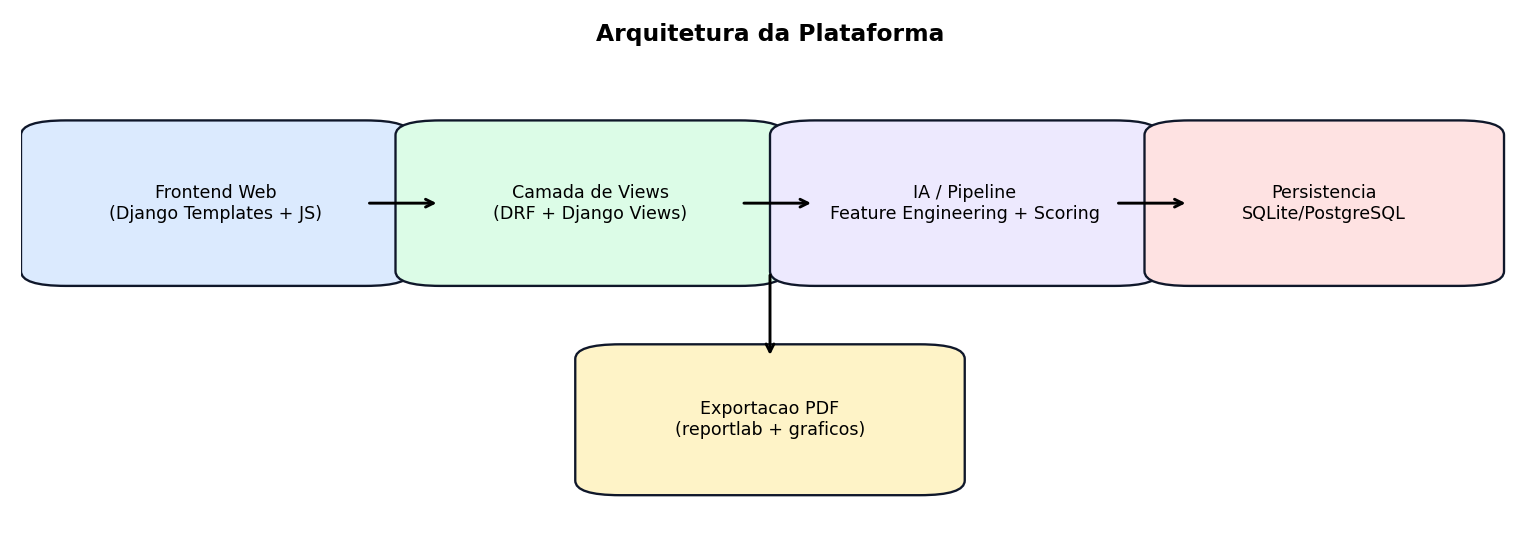
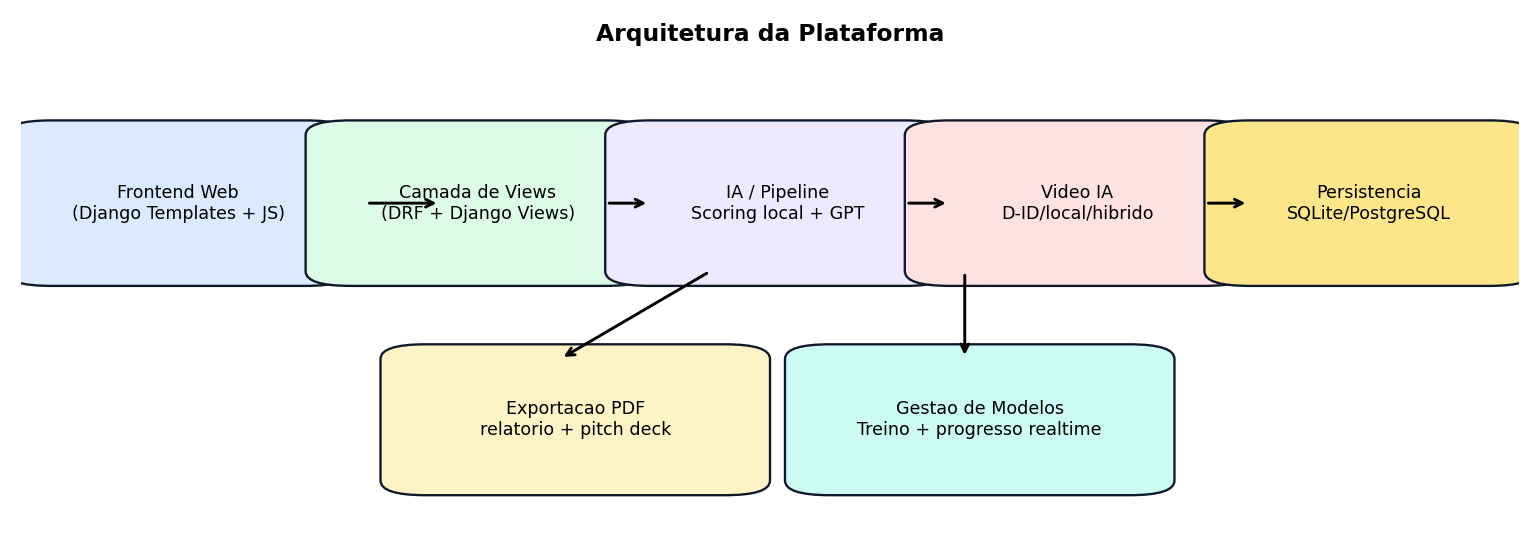
Regenera documentacao tecnica e atualiza README do projeto

diff --git a/docs/generate_engineering_pdf.py b/docs/generate_engineering_pdf.py
@@ -46,15 +46,19 @@ def generate_visual_assets():
     ax.set_xlim(0, 1)
     ax.set_ylim(0, 1)
     ax.axis("off")
-    _draw_box(ax, 0.03, 0.55, 0.2, 0.28, "Frontend Web\n(Django Templates + JS)", "#dbeafe")
-    _draw_box(ax, 0.28, 0.55, 0.2, 0.28, "Camada de Views\n(DRF + Django Views)", "#dcfce7")
-    _draw_box(ax, 0.53, 0.55, 0.2, 0.28, "IA / Pipeline\nFeature Engineering + Scoring", "#ede9fe")
-    _draw_box(ax, 0.78, 0.55, 0.18, 0.28, "Persistencia\nSQLite/PostgreSQL", "#fee2e2")
-    _draw_box(ax, 0.40, 0.12, 0.2, 0.25, "Exportacao PDF\n(reportlab + graficos)", "#fef3c7")
+    _draw_box(ax, 0.02, 0.55, 0.17, 0.28, "Frontend Web\n(Django Templates + JS)", "#dbeafe")
+    _draw_box(ax, 0.22, 0.55, 0.17, 0.28, "Camada de Views\n(DRF + Django Views)", "#dcfce7")
+    _draw_box(ax, 0.42, 0.55, 0.17, 0.28, "IA / Pipeline\nScoring local + GPT", "#ede9fe")
+    _draw_box(ax, 0.62, 0.55, 0.17, 0.28, "Video IA\nD-ID/local/hibrido", "#fee2e2")
+    _draw_box(ax, 0.82, 0.55, 0.16, 0.28, "Persistencia\nSQLite/PostgreSQL", "#fde68a")
+    _draw_box(ax, 0.27, 0.12, 0.2, 0.25, "Exportacao PDF\nrelatorio + pitch deck", "#fef3c7")
+    _draw_box(ax, 0.54, 0.12, 0.2, 0.25, "Gestao de Modelos\nTreino + progresso realtime", "#ccfbf1")
     ax.annotate("", xy=(0.28, 0.69), xytext=(0.23, 0.69), arrowprops=dict(arrowstyle="->", lw=1.5))
-    ax.annotate("", xy=(0.53, 0.69), xytext=(0.48, 0.69), arrowprops=dict(arrowstyle="->", lw=1.5))
-    ax.annotate("", xy=(0.78, 0.69), xytext=(0.73, 0.69), arrowprops=dict(arrowstyle="->", lw=1.5))
-    ax.annotate("", xy=(0.50, 0.37), xytext=(0.50, 0.55), arrowprops=dict(arrowstyle="->", lw=1.5))
+    ax.annotate("", xy=(0.42, 0.69), xytext=(0.39, 0.69), arrowprops=dict(arrowstyle="->", lw=1.5))
+    ax.annotate("", xy=(0.62, 0.69), xytext=(0.59, 0.69), arrowprops=dict(arrowstyle="->", lw=1.5))
+    ax.annotate("", xy=(0.82, 0.69), xytext=(0.79, 0.69), arrowprops=dict(arrowstyle="->", lw=1.5))
+    ax.annotate("", xy=(0.36, 0.37), xytext=(0.46, 0.55), arrowprops=dict(arrowstyle="->", lw=1.5))
+    ax.annotate("", xy=(0.63, 0.37), xytext=(0.63, 0.55), arrowprops=dict(arrowstyle="->", lw=1.5))
     ax.set_title("Arquitetura da Plataforma", fontsize=12, weight="bold")
     architecture_path = os.path.join(ASSETS_DIR, "arquitetura_plataforma.png")
     fig.tight_layout()
@@ -175,6 +179,9 @@ def build_pdf():
             ["Analise com score final e categorias 0-10", "Implementado"],
             ["Relatorio automatico com pontos fortes e melhorias", "Implementado"],
             ["Exportacao de relatorio completo em PDF", "Implementado"],
+            ["Video IA com D-ID/local/hibrido + progresso realtime", "Implementado"],
+            ["Pitch PDF estilo slides com design automatico/manual", "Implementado"],
+            ["Gestao de modelos com treino realtime", "Implementado"],
             ["Dashboard com historico, progresso e comparacao por sector", "Implementado"],
         ],
         colWidths=[12 * cm, 4 * cm],
@@ -206,11 +213,12 @@ def build_pdf():
     story.append(Image(flow_path, width=17 * cm, height=8 * cm))
     story.append(PageBreak())
 
-    story.append(Paragraph("5. Logica de avaliacao e categorias", h2))
+    story.append(Paragraph("5. Logica de avaliacao, video e pitch deck", h2))
     story.append(
         Paragraph(
             "A avaliacao combina dados financeiros, qualidade textual, sinais multimodais e motor de inferencia "
-            "(local ou GPT). O relatorio devolve score final e categorias padronizadas de 0 a 10.",
+            "(local ou GPT). O relatorio devolve score final e categorias padronizadas de 0 a 10. "
+            "A plataforma tambem gera video explicativo (D-ID/local/hibrido) e pitch deck PDF visual com templates contextuais.",
             body,
         )
     )
@@ -240,8 +248,9 @@ def build_pdf():
         "Opcionalmente grave ou envie audio e video, e adicione link YouTube.",
         "Informe receita, crescimento e margem.",
         "Escolha motor local ou GPT e clique em 'Analisar Pitch'.",
-        "Veja o resultado com score, categorias e recomendacoes.",
-        "Baixe o relatorio PDF e acompanhe seu historico no dashboard.",
+        "No resultado, opcionalmente gere video IA escolhendo modo (D-ID/local/hibrido).",
+        "Para o pitch PDF, selecione design automatico por contexto ou design premium manual.",
+        "Baixe relatorio PDF e pitch deck PDF e acompanhe seu historico no dashboard.",
     ]
     for idx, step in enumerate(steps, start=1):
         story.append(Paragraph(f"{idx}. {step}", body))
@@ -253,13 +262,24 @@ def build_pdf():
         "python3 manage.py check",
         "python3 manage.py runserver 0.0.0.0:8000",
         "python3 manage.py train_model --model-output ai_models/pitch_model.pkl",
+        "python3 docs/generate_engineering_pdf.py",
     ]:
         story.append(Paragraph(f"• {cmd}", body))
     story.append(Spacer(1, 0.2 * cm))
     story.append(
         Paragraph(
             "Para validacao funcional, recomenda-se testar submissao multimodal, geracao de score, "
-            "download de PDF e comparacao de desempenho por sector no dashboard.",
+            "video IA com barra de progresso, pitch PDF com diferentes templates e comparacao de desempenho por sector no dashboard.",
+            body,
+        )
+    )
+
+    story.append(Spacer(1, 0.35 * cm))
+    story.append(Paragraph("8. Publicacao da documentacao no Discord", h2))
+    story.append(
+        Paragraph(
+            "A entrega operacional inclui o envio do PDF tecnico para webhook Discord definido pelo projeto, "
+            "garantindo distribuicao imediata da documentacao apos atualizacoes.",
             body,
         )
     )

diff --git a/README.md b/README.md
@@ -1,139 +1,194 @@
-# StartupScan - Plataforma Multimodal para Pitch Automatizado de Startups
+# StartupScan - Plataforma Inteligente para Avaliação de Startups
 
-Plataforma web para avaliacao automatica de pitches com **entrada multimodal** (texto, documento, audio, video e link YouTube), geracao de **score de sucesso (0-10)**, **feedback por categoria**, dashboard interativo e **exportacao de relatorio em PDF**.
+Plataforma web multimodal para avaliar startups com IA, gerar relatórios técnicos, criar vídeos explicativos e produzir pitch decks em PDF com design automático por contexto ou design premium manual.
 
-## Objetivo
+## Visão geral
 
-Apoiar empreendedores na validacao de ideias com um fluxo rapido:
+O StartupScan foi desenhado para apoiar empreendedores, aceleradoras e investidores no ciclo completo:
 
-1. Submeter pitch (texto/doc/audio/video/youtube)
-2. Processar com IA (motor local ou GPT com fallback)
-3. Gerar score + recomendacoes automaticas
-4. Exibir progresso no dashboard
-5. Baixar relatorio final em PDF
+1. Receber pitch multimodal (texto, documento, áudio, vídeo e YouTube).
+2. Gerar análise com motor local ou GPT (com fallback automático).
+3. Exibir score e categorias de desempenho com recomendações acionáveis.
+4. Produzir relatório técnico em PDF.
+5. Gerar vídeo de apresentação (D-ID/local/híbrido) com progresso em tempo real.
+6. Criar pitch deck em PDF (estilo slides) com visual adaptado ao contexto da startup.
+
+---
 
 ## Funcionalidades principais
 
-### 1) Submissao multimodal
-- Texto direto no formulario
-- Upload de documento: `.txt`, `.md`, `.csv`, `.pdf`, `.docx`
-- Audio por upload ou gravacao no navegador (MediaRecorder)
-- Video por upload ou gravacao no navegador (MediaRecorder)
-- Link do YouTube opcional para contexto do pitch
+### 1) Submissão multimodal de pitch
+- Campo de texto livre.
+- Upload de ficheiros: `.txt`, `.md`, `.csv`, `.pdf`, `.docx`.
+- Áudio via upload ou gravação no navegador.
+- Vídeo via upload ou gravação no navegador.
+- URL de YouTube opcional para contexto adicional.
 
-### 2) Analise com IA
-- Escolha de motor:
+### 2) Avaliação inteligente com IA
+- Seleção de motor:
   - **local** (modelo treinado no projeto)
-  - **gpt** (quando `OPENAI_API_KEY` estiver configurada)
-- Fallback automatico para modelo local quando GPT indisponivel
-- Score final de sucesso em escala 0-10
-- Avaliacao por categoria (0-10):
-  - Clareza da ideia
+  - **gpt** (se `OPENAI_API_KEY` estiver configurada)
+- Fallback automático para o motor local.
+- Score final de 0 a 10.
+- Categorias de análise (0-10):
+  - Clareza
   - Proposta de valor
-  - Inovacao
-  - Viabilidade tecnica/financeira
+  - Inovação
+  - Viabilidade
   - Escalabilidade
   - Mercado-alvo
-  - Equipe fundadora
+  - Equipa
   - Sustentabilidade
 
-### 3) Relatorio automatico
-- Resumo executivo
-- Pontos fortes
-- Pontos a melhorar
-- Recomendacoes de proxima etapa
-- Bloco investidor (tese, prontidao, uso de capital, mitigacao)
-- Download do relatorio em PDF por analise
+### 3) Gestão de modelos de ML
+- Importar dataset externo.
+- Treinar novo modelo.
+- Retreinar modelo existente.
+- Definir modelo ativo.
+- Editar metadados.
+- Excluir modelo.
+- Progresso em tempo real por job de treino.
 
-### 4) Dashboard interativo
-- Historico de pitches enviados
-- Evolucao de score
-- Distribuicao de potencial
-- Tracao financeira
-- Comparacao por sector (benchmark)
+### 4) Vídeo explicativo da startup
+- Geração assíncrona com barra de progresso por fases.
+- Modos disponíveis:
+  - **D-ID + fallback local** (recomendado)
+  - **Apenas D-ID**
+  - **Apenas local**
+- Duração configurada no pipeline: **mínimo 1 minuto e máximo 3 minutos**.
+- Encerramento obrigatório com conclusão explícita no final.
+- Erros detalhados separados por cenário (D-ID e local).
 
-## Stack tecnica
+### 5) Pitch PDF em formato de apresentação (slides)
+- Geração de PDF tipo deck (1 página = 1 slide).
+- Capa visual, seções de conteúdo e conclusão.
+- Modo de design:
+  - **Design automático por contexto** (default)
+  - **Design premium manual** (template escolhido pelo utilizador)
+- Templates premium suportados:
+  - Orbit
+  - Grid
+  - Wave
+  - Diagonal
+  - Aurora
+  - Ribbon
+- Variação visual por assinatura única do pitch.
+
+### 6) Relatórios e dashboards
+- Relatório técnico de análise em PDF.
+- Dashboard operacional do utilizador.
+- Dashboard orientado a investidor.
+- Histórico de análises, score médio, distribuição por potencial e indicadores financeiros.
+
+---
+
+## Stack técnica
 
 - **Backend:** Django + Django REST Framework
-- **ML:** scikit-learn, pandas, numpy
-- **Documentos e PDF:** pypdf, python-docx, reportlab
-- **Visualizacao:** Chart.js, matplotlib
-- **Persistencia:** SQLite (dev), compatibilidade com PostgreSQL
+- **IA/Modelagem:** scikit-learn, pandas, numpy
+- **NLP/GPT:** OpenAI SDK (quando configurado)
+- **Vídeo/áudio:** moviepy, edge-tts, gTTS, integração D-ID
+- **PDF/Documentos:** reportlab, pypdf, python-docx
+- **Frontend:** Django Templates, Bootstrap, Chart.js, JS custom
+- **Persistência:** SQLite (dev), compatível com PostgreSQL
 
-## Estrutura de pastas (resumo)
+---
+
+## Estrutura resumida
 
 ```bash
 backend/
 startupscan_api/
   services/
-    pitch_input.py         # extracao de texto de documentos e merge multimodal
-    report_export.py       # geracao de PDF da analise
+    pitch_input.py          # extração e merge multimodal
+    report_export.py        # relatório técnico PDF
+    pitch_builder.py        # geração de pitch + pitch deck PDF visual
+    pitch_video.py          # geração de vídeo IA (D-ID/local)
+    model_registry.py       # gestão de modelos
   templates/analyzer/
-    pitch_form.html        # formulario multimodal + gravacao browser
-    dashboard.html         # analytics e comparacao por sector
-    result.html            # relatorio e download PDF
+    pitch_form.html
+    result.html
+    dashboard.html
+    investor_dashboard.html
+    model_management.html
 docs/
   generate_engineering_pdf.py
   Documentacao_Engenharia_Software.pdf
+README.md
 ```
 
-## Como executar localmente
+---
 
-1. Instalar dependencias:
+## Execução local
 
+### 1) Instalar dependências
 ```bash
 python3 -m pip install -r requirements.txt
 ```
 
-2. Aplicar migracoes:
-
+### 2) Migrar base de dados
 ```bash
 python3 manage.py migrate
 ```
 
-3. (Opcional) Treinar modelo:
-
+### 3) (Opcional) Treinar modelo local inicial
 ```bash
 python3 manage.py train_model --model-output ai_models/pitch_model.pkl
 ```
 
-4. Subir servidor:
-
+### 4) Subir aplicação
 ```bash
 python3 manage.py runserver 0.0.0.0:8000
 ```
 
-## Endpoints importantes
+---
 
-- `GET /analyze/form/` - formulario multimodal
-- `POST /analyze/form/` - submissao de pitch
-- `GET /results/<analysis_id>/` - resultado da analise
-- `GET /results/<analysis_id>/pdf/` - download do relatorio PDF
-- `GET /` - dashboard do usuario
-- `GET /investor/dashboard/` - dashboard investidor
-- `POST /analyze/` - API de analise
+## Endpoints e páginas principais
 
-## Gerar documentacao PDF tecnica
+- `GET /` - Dashboard principal
+- `GET /analyze/form/` - Formulário de avaliação multimodal
+- `POST /analyze/form/` - Submissão e avaliação
+- `GET /results/<analysis_id>/` - Resultado da análise
+- `GET /results/<analysis_id>/pdf/` - Relatório PDF da análise
+- `GET /results/<analysis_id>/pitch/pdf/` - Pitch deck PDF (slides)
+- `POST /results/<analysis_id>/video/generate/` - Iniciar geração de vídeo
+- `GET /results/<analysis_id>/video/progress/<job_id>/` - Progresso do vídeo
+- `GET /models/` - Gestão de modelos
+- `GET /investors/` - Dashboard de investidores
+- `GET /pitch/builder/` - Formulário de ideia para pitch
 
+---
+
+## Geração de documentação técnica
+
+### Gerar PDF de engenharia
 ```bash
 python3 docs/generate_engineering_pdf.py
 ```
 
 Arquivo gerado:
+- `docs/Documentacao_Engenharia_Software.pdf`
 
-`docs/Documentacao_Engenharia_Software.pdf`
+### Atualizar documentação completa (README + PDF + envio webhook)
+Fluxo recomendado:
+1. Atualizar `README.md`.
+2. Executar `python3 docs/generate_engineering_pdf.py`.
+3. Enviar PDF para o webhook do Discord com `curl`.
 
-## Qualidade e validacao
+---
 
-Comandos de verificacao:
+## Validação e qualidade
+
+Comandos úteis:
 
 ```bash
 python3 manage.py check
 python3 manage.py test
 ```
 
-Tambem e recomendado executar testes funcionais de:
-- submissao com documento
-- analise com score e categorias
-- download de PDF
-- leitura de benchmark por sector no dashboard
+Teste funcional recomendado:
+- Submissão multimodal completa.
+- Geração de score + categorias + recomendações.
+- Geração de vídeo nos 3 modos (auto, did_only, local_only).
+- Exportação de pitch PDF nos 2 modos de design.
+- Download de relatório técnico PDF.
